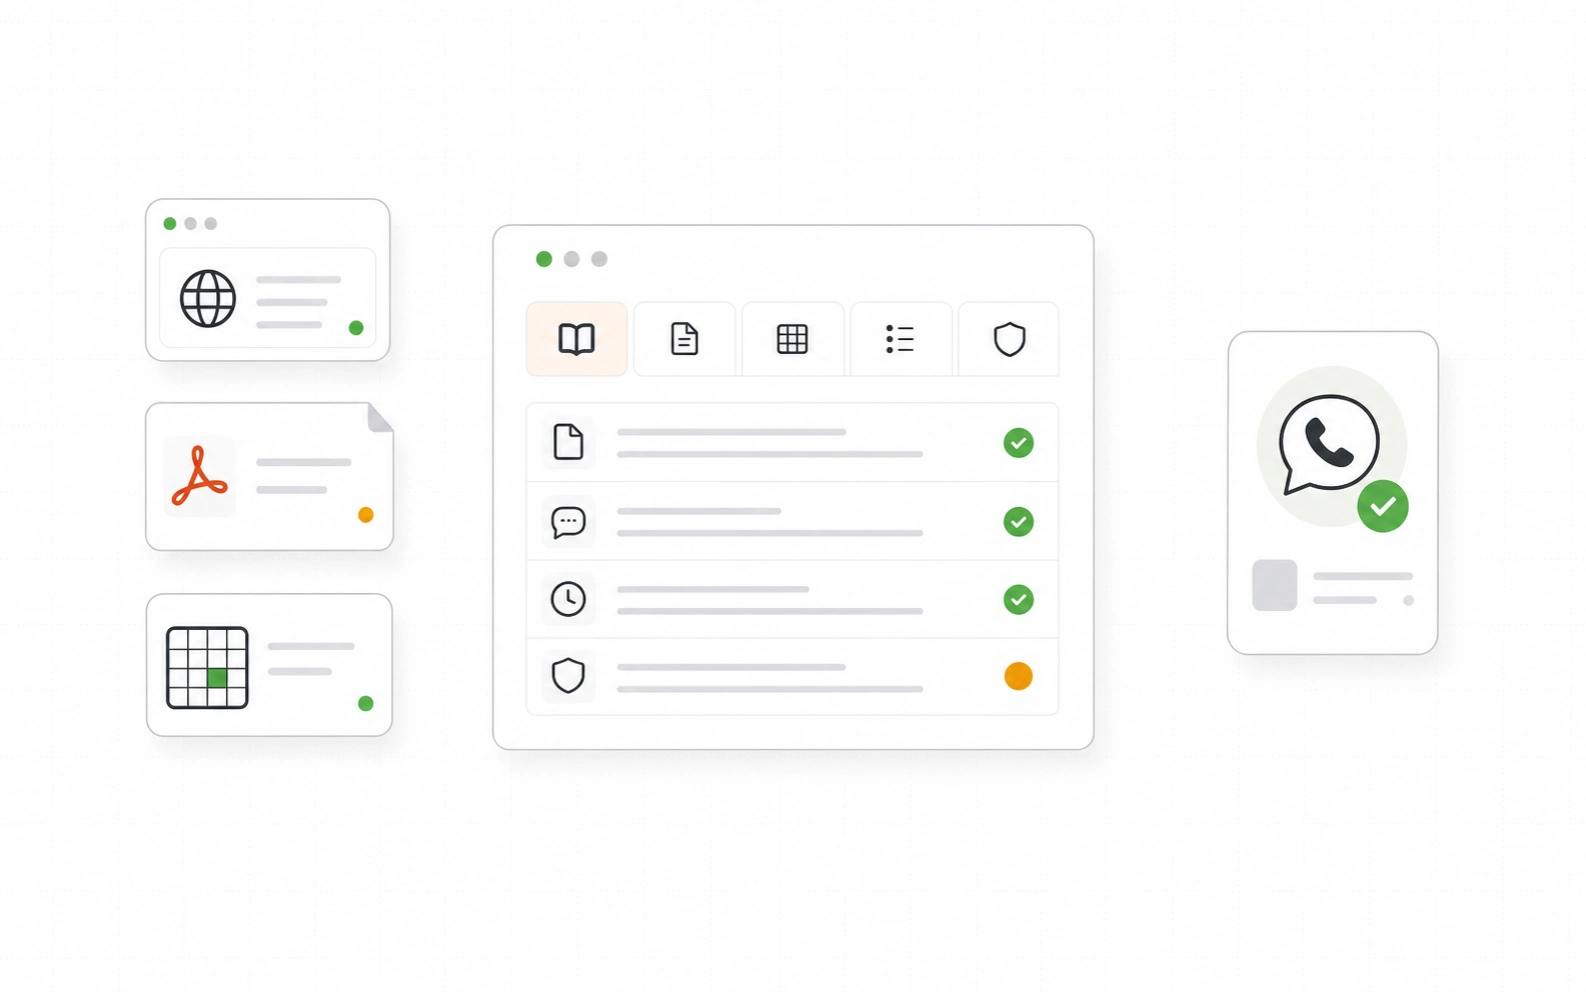
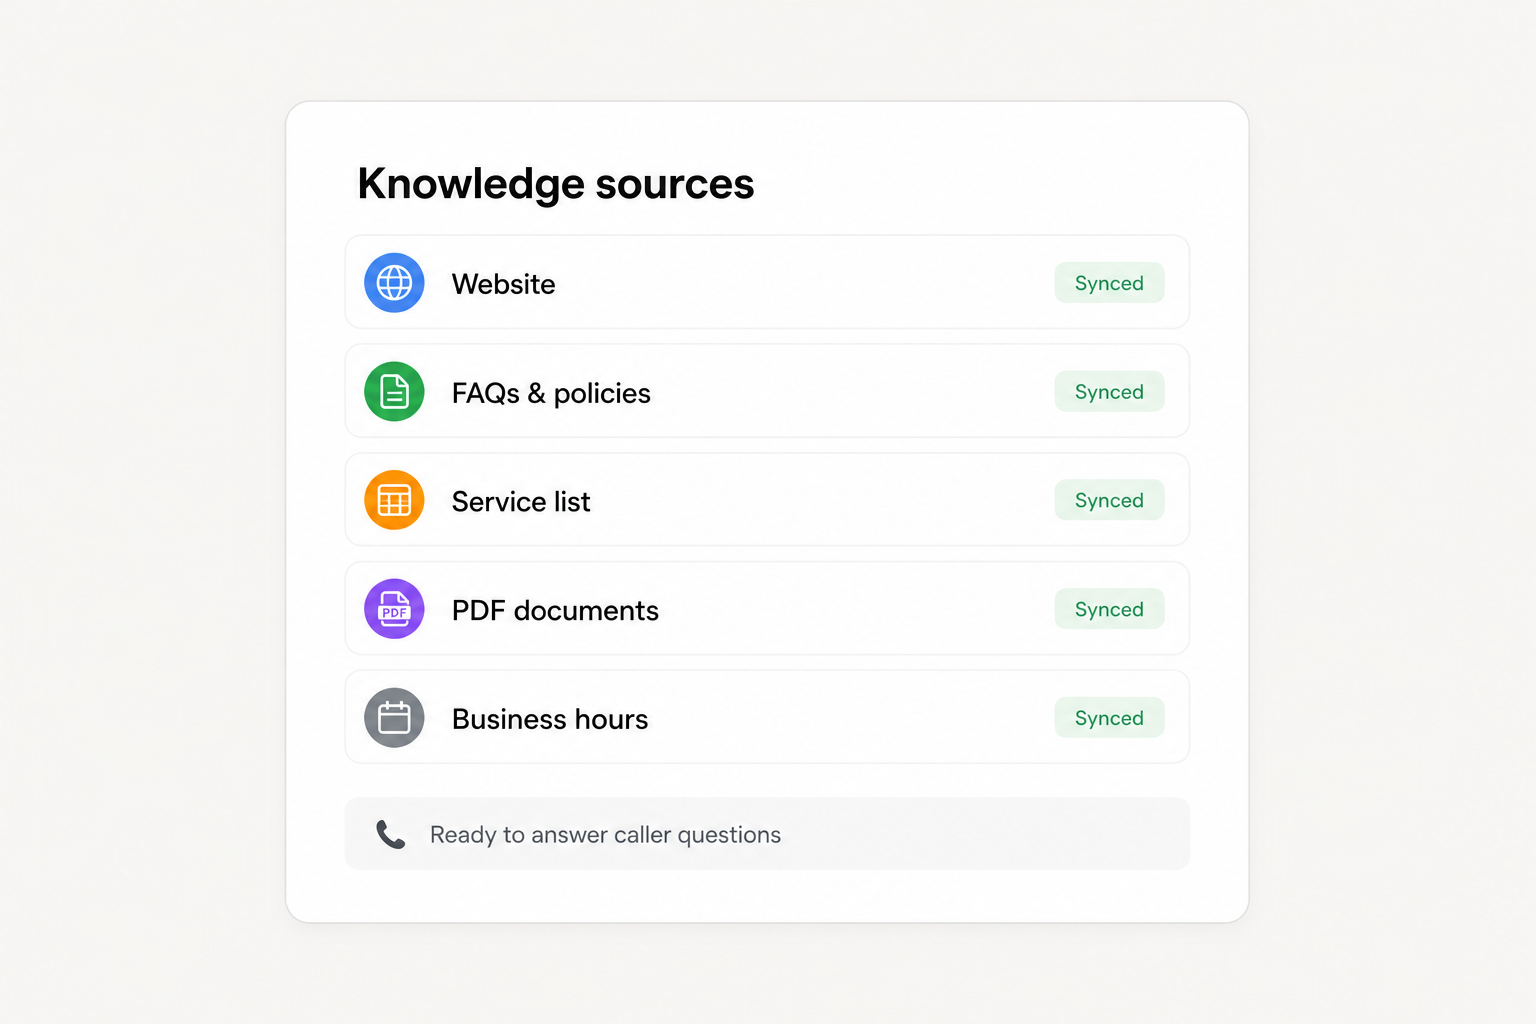
Replace knowledge section illustration with Quo-style synced sources card.

diff --git a/apps/landing/src/components/LandingPageAdditions.tsx b/apps/landing/src/components/LandingPageAdditions.tsx
@@ -432,13 +432,13 @@ function ConnectedReceptionistSection({ locale = "en" }: LocalizedProps) {
     <section className="section-spacing" id="how-it-works">
       <div className="mx-auto max-w-7xl px-6">
         <div className="grid overflow-hidden rounded-[1.35rem] border border-border/70 bg-background lg:grid-cols-[1.18fr_0.82fr]">
-          <div className="min-h-[360px] overflow-hidden border-b border-border/70 bg-muted md:min-h-[460px] lg:border-r lg:border-b-0">
+          <div className="min-h-[360px] overflow-hidden border-b border-border/70 bg-[#F4F4F2] md:min-h-[460px] lg:border-r lg:border-b-0">
             <img
               src="/illustrations/business-knowledge.webp"
               alt={sectionCopy.imageAlt}
-              width={1200}
-              height={800}
-              className="h-full w-full object-cover"
+              width={1536}
+              height={1024}
+              className="h-full w-full min-h-[360px] object-cover object-center md:min-h-[460px]"
               loading="lazy"
               decoding="async"
             />
